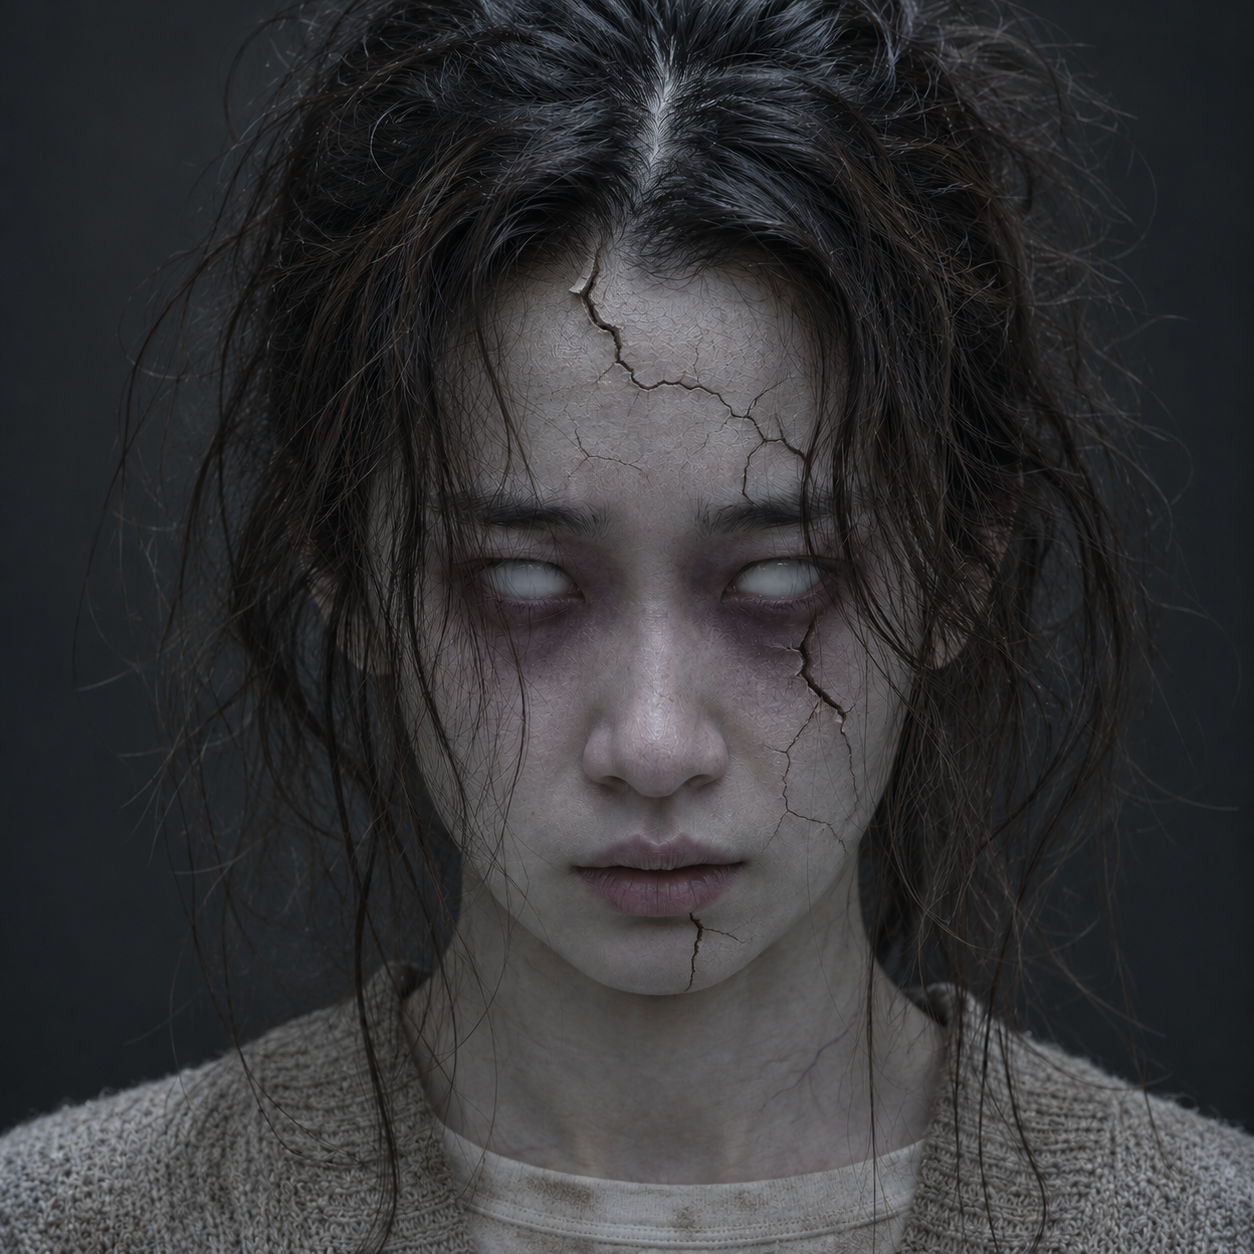
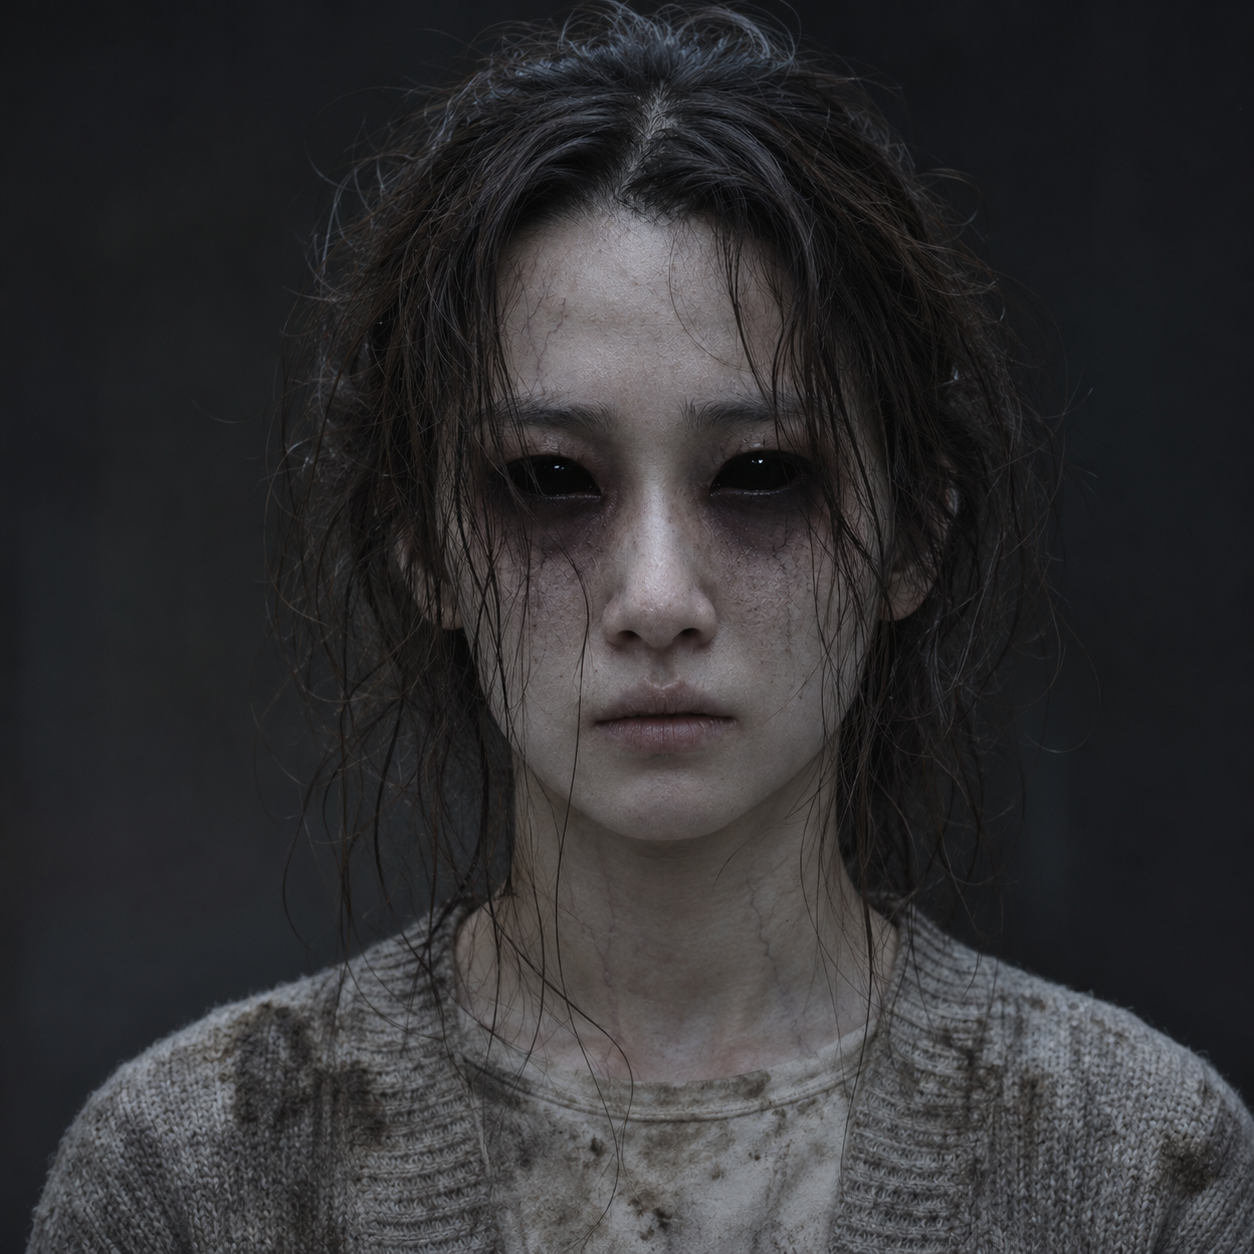
規格／影片素材：等號者三人幽靈頭像改為黑眼無表情怨靈定稿
頭像改用整顆全黑眼球、眼眶重度發黑、淡血管、亂髮與髒汙衣著的新版（左 01、中 01、右 02），不帶裂紋；全身維持白眼與裂紋。

diff --git a/docs/10_製作規格/10-23_製作規格_影片素材設定.md b/docs/10_製作規格/10-23_製作規格_影片素材設定.md
@@ -143,7 +143,7 @@
 - **素材提示詞：**大廳塑膠等候椅上的三個年輕人（兩女一男，約十九到二十六歲），高矮胖瘦各不相同，穿的是自己平常的便服，像日常途中突然被帶進園區：左邊的女生是灰色針織開襟衫、白 T、淺色寬牛仔褲；中間的男生是暗紅帽 T、側邊白條紋的灰運動褲；右邊的女生是深藍大學 T、黑色寬褲。衣服乾淨但有一天下來的皺褶，色調低飽和。每人手裡都有一張塑膠號牌。第一人坐得最直；第二人縮肩、抿著嘴，嘴角被迫往兩側提起；第三人望著封住的出口，一手把號牌壓在膝上、一手扣住椅緣。異變只在頸部：衣領裡有一道細長的折角，頸影比肩膀多折一節，慢半拍才接回頭影。臉都沒有清楚五官（低垂、背光或模糊）。
 - **不要出現：**腐爛、傷口或血跡；三人長得一樣或穿同一套衣服；制服、戲服或破舊二手衣
 - **內部視覺基準：**[三人合照](../../assets/07_視聽與介面/assets/角色設定_等號者_合照_v1.png)是三人並坐、號牌與姿態的基準；左、中、右三人各有[左正面頭像](../../assets/07_視聽與介面/assets/角色設定_等號者_左_頭像_v1.png)與[左正面全身](../../assets/07_視聽與介面/assets/角色設定_等號者_左_全身_v1.png)、[中正面頭像](../../assets/07_視聽與介面/assets/角色設定_等號者_中_頭像_v1.png)與[中正面全身](../../assets/07_視聽與介面/assets/角色設定_等號者_中_全身_v1.png)、[右正面頭像](../../assets/07_視聽與介面/assets/角色設定_等號者_右_頭像_v1.png)與[右正面全身](../../assets/07_視聽與介面/assets/角色設定_等號者_右_全身_v1.png)，作為臉部與服裝基準。七張都是未異變的正常人形，只供內部對臉與定裝，不進遊戲畫面；遊戲內仍照本段不交清楚五官，頸部異變另依來源段製作。
-- **幽靈版內部視覺基準：**[左幽靈全身](../../assets/07_視聽與介面/assets/角色設定_等號者_左_幽靈_v1.png)與[左幽靈頭像](../../assets/07_視聽與介面/assets/角色設定_等號者_左_幽靈頭像_v1.png)、[中幽靈全身](../../assets/07_視聽與介面/assets/角色設定_等號者_中_幽靈_v1.png)與[中幽靈頭像](../../assets/07_視聽與介面/assets/角色設定_等號者_中_幽靈頭像_v1.png)、[右幽靈全身](../../assets/07_視聽與介面/assets/角色設定_等號者_右_幽靈_v1.png)與[右幽靈頭像](../../assets/07_視聽與介面/assets/角色設定_等號者_右_幽靈頭像_v1.png)以三人正面全身定裝為底，人、衣著與 28／27／25 號牌不變；全身是怨靈外觀的姿態、衣著髒汙與臉部碎裂基準，頭像是白眼、眼眶、裂紋與皮膚質地的臉部細節基準，裂紋走向與全身一致。膚色灰白偏青、衣色褪淡；臉上沒有表情，只剩空洞的死盯；雙眼全白、沒有瞳孔也不發光，眼眶周圍大片發黑、凹陷，黑紫色一路暈到顴骨與眉骨；黑色血管只在太陽穴、脖子與手背淡淡浮現，不搶眼；頭髮凌亂打結、微濕，碎髮散在額頭和臉頰上。臉上有乾裂的黑色細紋，像摔裂的陶瓷娃娃，裂縫是乾的、不流血：左邊的女生一道裂縫從髮際穿過眼眶劈到下巴，中間的男生整張臉布滿細密龜裂，右邊的女生從兩邊眼眶往外放射出網狀裂紋。衣服沾滿泥巴、灰塵和水漬，袖口、褲腳、膝蓋與鞋子最髒，像在水泥地上躺了很久。三人都一動也不動，像被看不見的東西吊著：左邊的女生踮著腳尖懸在地面上方，雙手垂直貼著身側，28 號牌別在毛衣胸前；中間的男生直挺挺站著，雙臂垂下，27 號牌捏在指間垂著；右邊的女生直挺挺站著，雙臂垂下，25 號牌捏在指間垂著。單次成像，沒有殘影、半透明或重影；脖子保持正常，不扭曲、不拉長，衣領內頸影慢半拍只在動畫演出中呈現。仍不出現腐爛、傷口或血跡。
+- **幽靈版內部視覺基準：**[左幽靈全身](../../assets/07_視聽與介面/assets/角色設定_等號者_左_幽靈_v1.png)與[左幽靈頭像](../../assets/07_視聽與介面/assets/角色設定_等號者_左_幽靈頭像_v1.png)、[中幽靈全身](../../assets/07_視聽與介面/assets/角色設定_等號者_中_幽靈_v1.png)與[中幽靈頭像](../../assets/07_視聽與介面/assets/角色設定_等號者_中_幽靈頭像_v1.png)、[右幽靈全身](../../assets/07_視聽與介面/assets/角色設定_等號者_右_幽靈_v1.png)與[右幽靈頭像](../../assets/07_視聽與介面/assets/角色設定_等號者_右_幽靈頭像_v1.png)以三人正面全身定裝為底，人、衣著與 28／27／25 號牌不變；全身是怨靈外觀的姿態、衣著髒汙與臉部碎裂基準，頭像是眼眶發黑、亂髮、衣著髒汙與皮膚質地的臉部細節基準；頭像版雙眼整顆全黑、沒有眼白，臉上不帶裂紋，黑色血管比全身更淡，全身仍維持下面的白眼與裂紋。膚色灰白偏青、衣色褪淡；臉上沒有表情，只剩空洞的死盯；雙眼全白、沒有瞳孔也不發光，眼眶周圍大片發黑、凹陷，黑紫色一路暈到顴骨與眉骨；黑色血管只在太陽穴、脖子與手背淡淡浮現，不搶眼；頭髮凌亂打結、微濕，碎髮散在額頭和臉頰上。臉上有乾裂的黑色細紋，像摔裂的陶瓷娃娃，裂縫是乾的、不流血：左邊的女生一道裂縫從髮際穿過眼眶劈到下巴，中間的男生整張臉布滿細密龜裂，右邊的女生從兩邊眼眶往外放射出網狀裂紋。衣服沾滿泥巴、灰塵和水漬，袖口、褲腳、膝蓋與鞋子最髒，像在水泥地上躺了很久。三人都一動也不動，像被看不見的東西吊著：左邊的女生踮著腳尖懸在地面上方，雙手垂直貼著身側，28 號牌別在毛衣胸前；中間的男生直挺挺站著，雙臂垂下，27 號牌捏在指間垂著；右邊的女生直挺挺站著，雙臂垂下，25 號牌捏在指間垂著。單次成像，沒有殘影、半透明或重影；脖子保持正常，不扭曲、不拉長，衣領內頸影慢半拍只在動畫演出中呈現。仍不出現腐爛、傷口或血跡。
 - **來源：**[昆蟲化分配：E-01 等號者](../09_劇本/09-15_正式劇本_共用附錄.md#h-0412-140)
 
 <a id="va-receptionist"></a>
